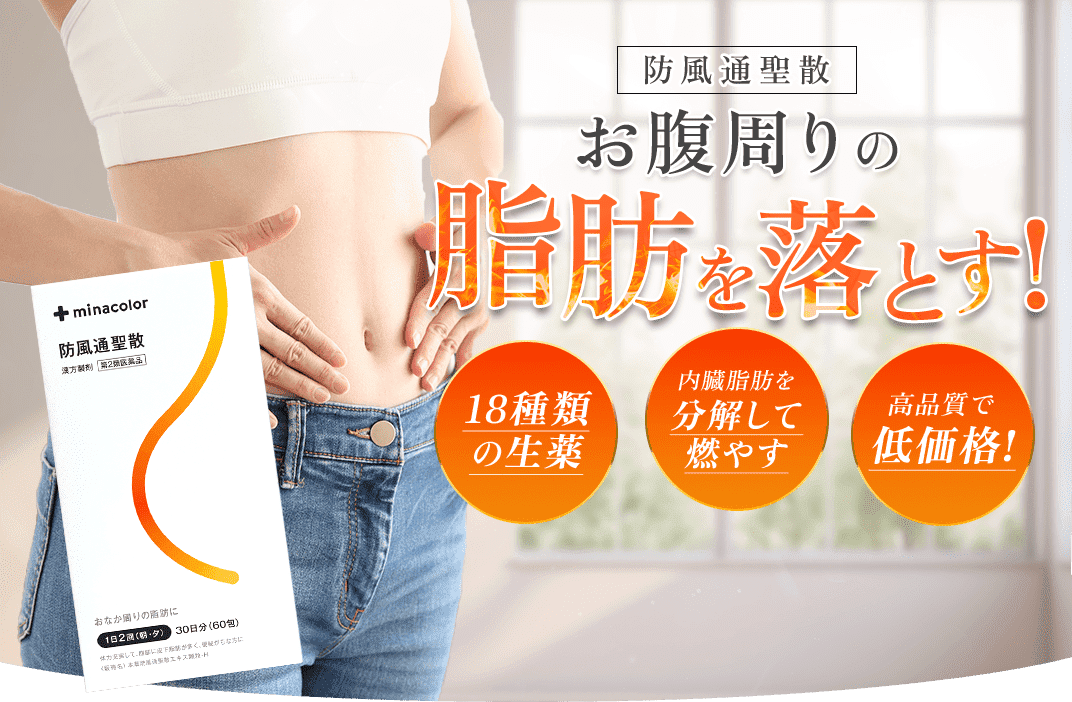
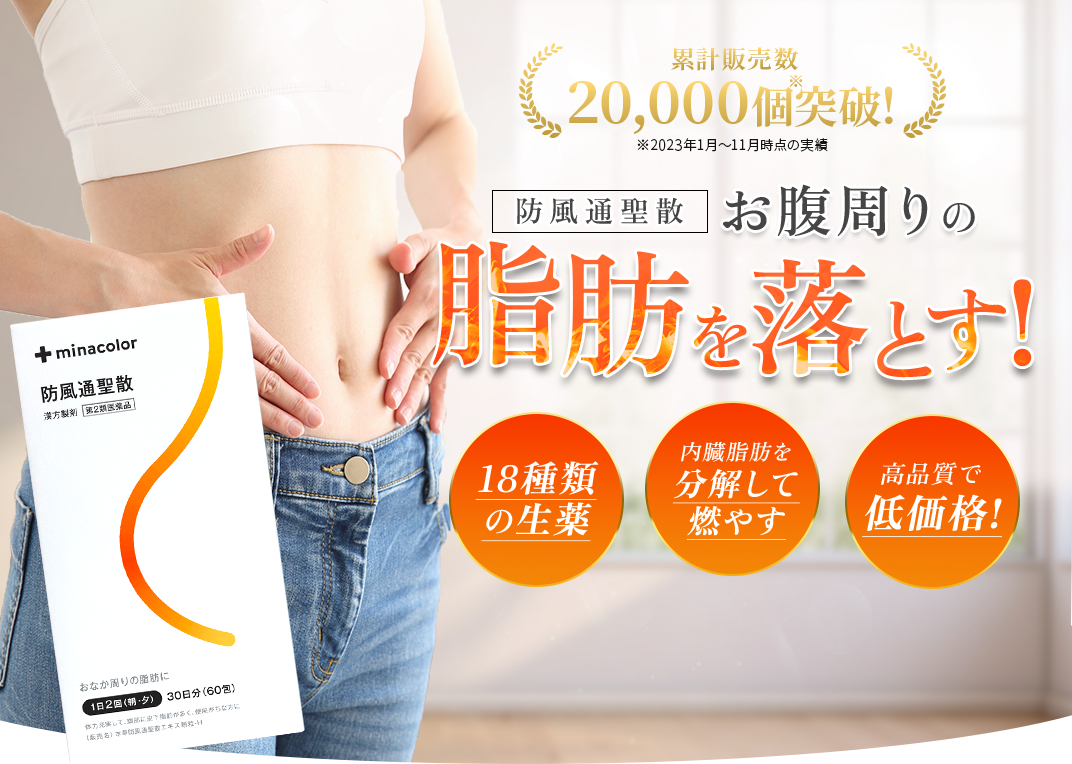
FV差し替え・フローティング追加

diff --git a/boufutusyousan-lp/index.html b/boufutusyousan-lp/index.html
@@ -7,6 +7,7 @@
         <link rel="stylesheet" href="./css/theme-b31af693.css" type="text/css" />
         <link rel="stylesheet" href="./css/style.css" type="text/css" />
         <script src="https://code.jquery.com/jquery-3.3.1.js"></script>
+        <script src="./js/common.js"></script>
     </head>
 
     <body>
@@ -19,14 +20,15 @@
 
                     <section class="lp-boufutusyousan-fv">
                         <h1>
-                            <img class="lazyload lp-boufutusyousan-responsive-pc" loading="lazy" src="./img/fv-pc-bg.png" alt="防風通聖散 お腹周りの脂肪を落とす!" width="1072" height="702" />
-                            <img class="lazyload lp-boufutusyousan-responsive-sp" loading="lazy" src="./img/fv-sp-bg.png" alt="防風通聖散 お腹周りの脂肪を落とす!" width="750" height="1148" />
+                            <img class="lazyload lp-boufutusyousan-responsive-pc" loading="lazy" src="./img/fv-pc-bg.png" alt="防風通聖散 お腹周りの脂肪を落とす!" width="1072" height="764" />
+                            <img class="lazyload lp-boufutusyousan-responsive-sp" loading="lazy" src="./img/fv-sp-bg.png" alt="防風通聖散 お腹周りの脂肪を落とす!" width="750" height="1219" />
                         </h1>
                         <a class="lp-boufutusyousan-fv-cta" href="https://minacolor.com/51877970084/checkouts/ecc179b7e93cf0ea89706204b9751708">
                             <img class="lazyload" loading="lazy" src="./img/fv-cta.png" alt="購入はこちら" width="612" height="114" />
                         </a>
                     </section>
 
+                    <div class="trigger-add-class"></div>
                     <section class="lp-boufutusyousan-trouble">
                         <h2>
                             <img
@@ -216,6 +218,8 @@
                         </div>
                     </section>
 
+                    <div class="trigger-remove-class"></div>
+
                     <section class="lp-boufutusyousan-effect">
                         <p>
                             <img class="lazyload lp-boufutusyousan-responsive-pc" loading="lazy" src="./img/effect-item-pc.png" alt="高血圧や肥満に伴うお悩みにも" width="1072" height="1099" />
@@ -224,7 +228,7 @@
                     </section>
 
                     <section class="lp-boufutusyousan-offer">
-                        <div class="lp-boufutusyousan-offer-inner lp-boufutusyousan-offer-inner-bottom">
+                        <div class="lp-boufutusyousan-offer-inner">
                             <h2>ミナカラの防風通聖散にお任せ!</h2>
                             <div class="lp-boufutusyousan-offer-bg">
                                 <div class="lp-boufutusyousan-offer-box">
@@ -379,6 +383,13 @@
                             </p>
                         </details>
                     </section>
+
+                    <div id="lp-boufutusyousan-floating">
+                        <img class="lazyload lp-boufutusyousan-floating-text" loading="lazy" src="./img/floating-text.png" width="461" height="142" />
+                        <a href="https://minacolor.com/51877970084/checkouts/ecc179b7e93cf0ea89706204b9751708">
+                            <img class="lazyload" loading="lazy" src="./img/floating-btn.png" alt="購入はこちら" width="461" height="142" />
+                        </a>
+                    </div>
                 </main>
             </div>
         </div>

diff --git a/boufutusyousan-lp/js/common.js b/boufutusyousan-lp/js/common.js
@@ -1,0 +1,33 @@
+document.addEventListener('DOMContentLoaded', function () {
+    const targetElement = document.getElementById('lp-boufutusyousan-floating');
+    const addTriggerElement = document.querySelector('.trigger-add-class');
+    const removeTriggerElement = document.querySelector('.trigger-remove-class');
+    let lastScrollPosition = window.pageYOffset || document.documentElement.scrollTop;
+    let classAdded = false; // クラスが追加されたかどうかを追跡するフラグ
+
+    function checkPosition() {
+        const currentScrollPosition = window.pageYOffset || document.documentElement.scrollTop;
+        const scrollingUp = currentScrollPosition < lastScrollPosition;
+        lastScrollPosition = currentScrollPosition;
+
+        if (addTriggerElement) {
+            const addTriggerPosition = addTriggerElement.getBoundingClientRect().top + window.pageYOffset;
+            if (currentScrollPosition >= addTriggerPosition || (scrollingUp && classAdded)) {
+                targetElement.classList.add('lp-boufutusyousan-floating-active');
+                classAdded = true;
+            }
+        }
+
+        if (removeTriggerElement) {
+            const removeTriggerPosition = removeTriggerElement.getBoundingClientRect().top + window.pageYOffset;
+            if (currentScrollPosition >= removeTriggerPosition) {
+                targetElement.classList.remove('lp-boufutusyousan-floating-active');
+                classAdded = false;
+            } else if (scrollingUp && currentScrollPosition < removeTriggerPosition && classAdded) {
+                targetElement.classList.add('lp-boufutusyousan-floating-active');
+            }
+        }
+    }
+
+    window.addEventListener('scroll', checkPosition);
+});

diff --git a/boufutusyousan-lp/css/style.css b/boufutusyousan-lp/css/style.css
@@ -640,6 +640,29 @@
     content: 'A';
 }
 
+#lp-boufutusyousan-floating {
+    position: fixed;
+    bottom: 0;
+    padding: 20px;
+    text-align: center;
+    background-color: #fff;
+    display: none;
+}
+.lp-boufutusyousan-floating-text {
+    width: 75%;
+}
+
+#lp-boufutusyousan-floating a {
+    width: 94%;
+    display: block;
+    margin: auto;
+    margin-top: 14px;
+}
+
+#lp-boufutusyousan-floating a img {
+    width: 100%;
+}
+
 @media screen and (max-width: 768px) {
     /* header------------------------- */
 
@@ -1140,5 +1163,31 @@
         color: #ff8d8d;
         line-height: 1.2;
         content: 'A';
+    }
+}
+
+@media screen and (max-width: 640px) {
+    #lp-boufutusyousan-floating {
+        display: none;
+    }
+
+    .lp-boufutusyousan-floating-active {
+        display: block !important;
+        animation-name: fadeUpAnime;
+        animation-duration: 0.5s;
+        animation-fill-mode: forwards;
+        opacity: 0;
+    }
+
+    @keyframes fadeUpAnime {
+        from {
+            opacity: 0;
+            transform: translateY(100px);
+        }
+
+        to {
+            opacity: 1;
+            transform: translateY(0);
+        }
     }
 }
